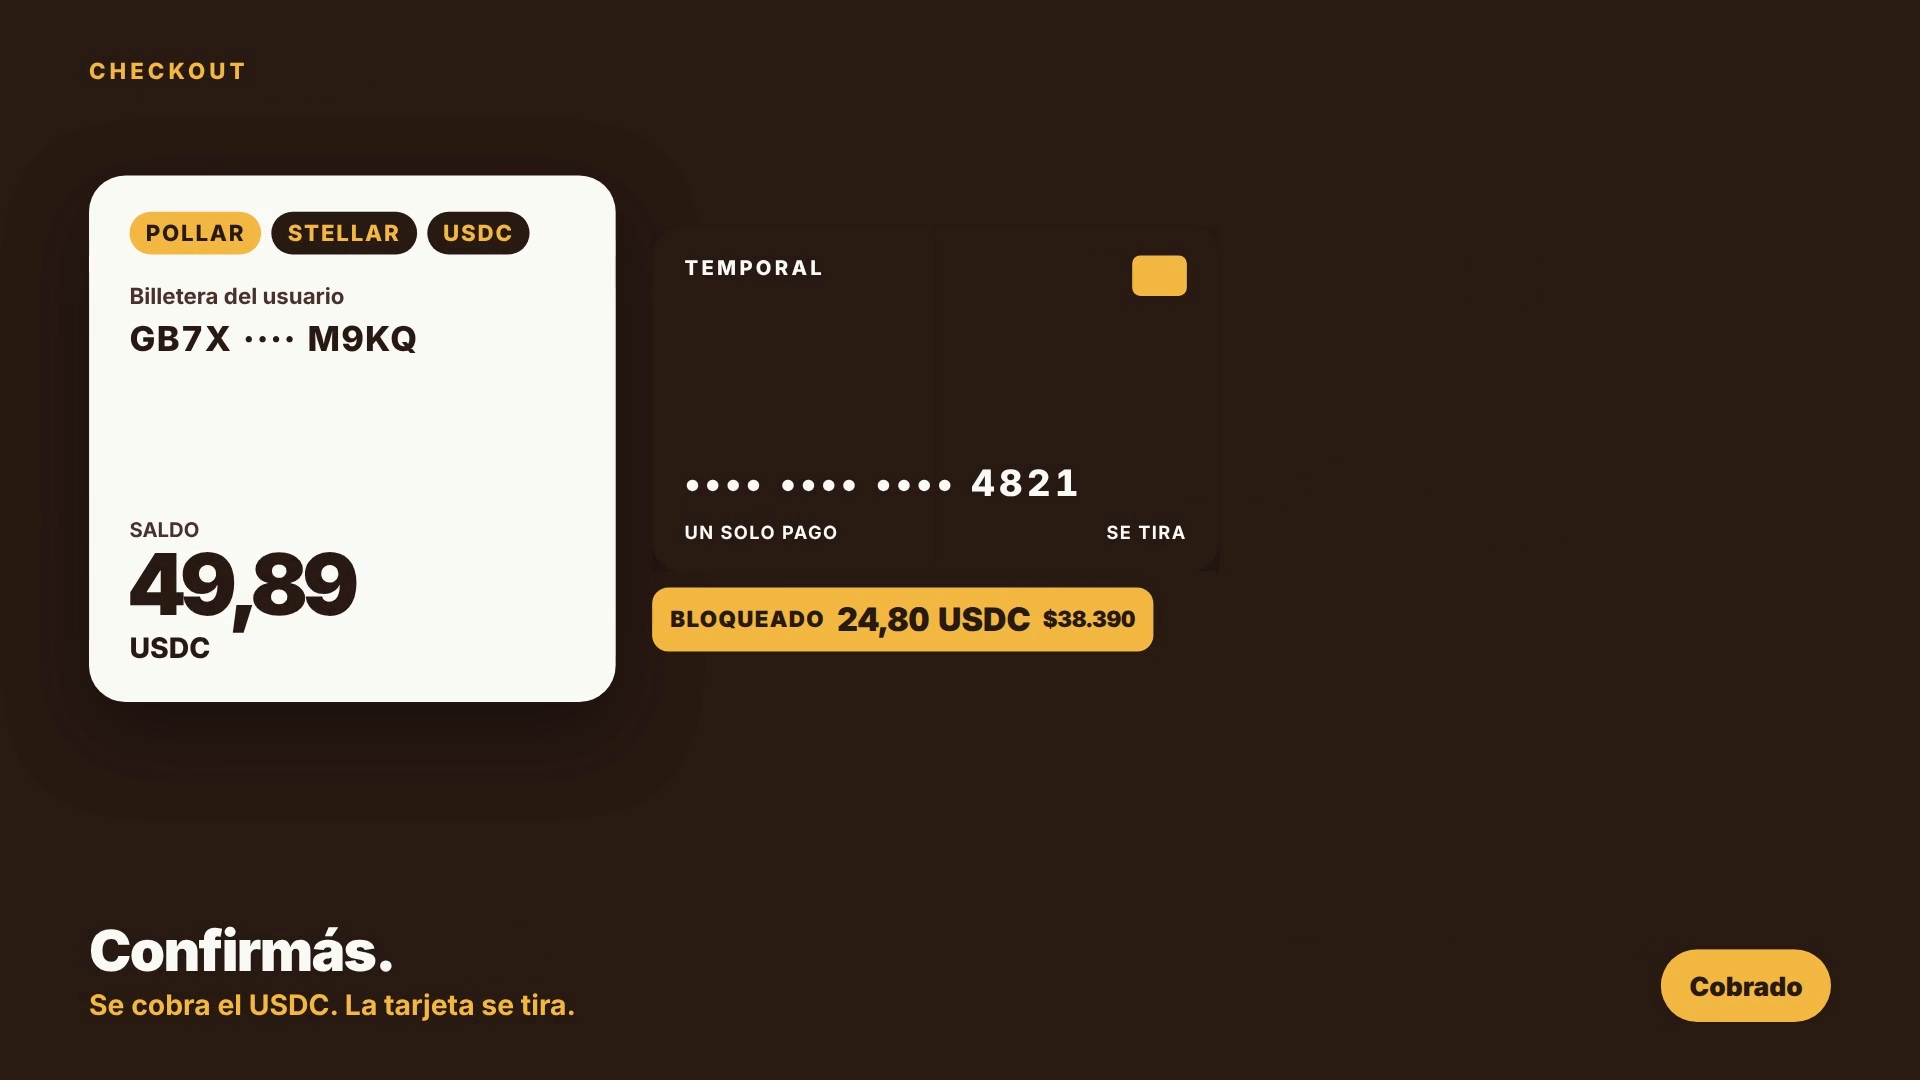
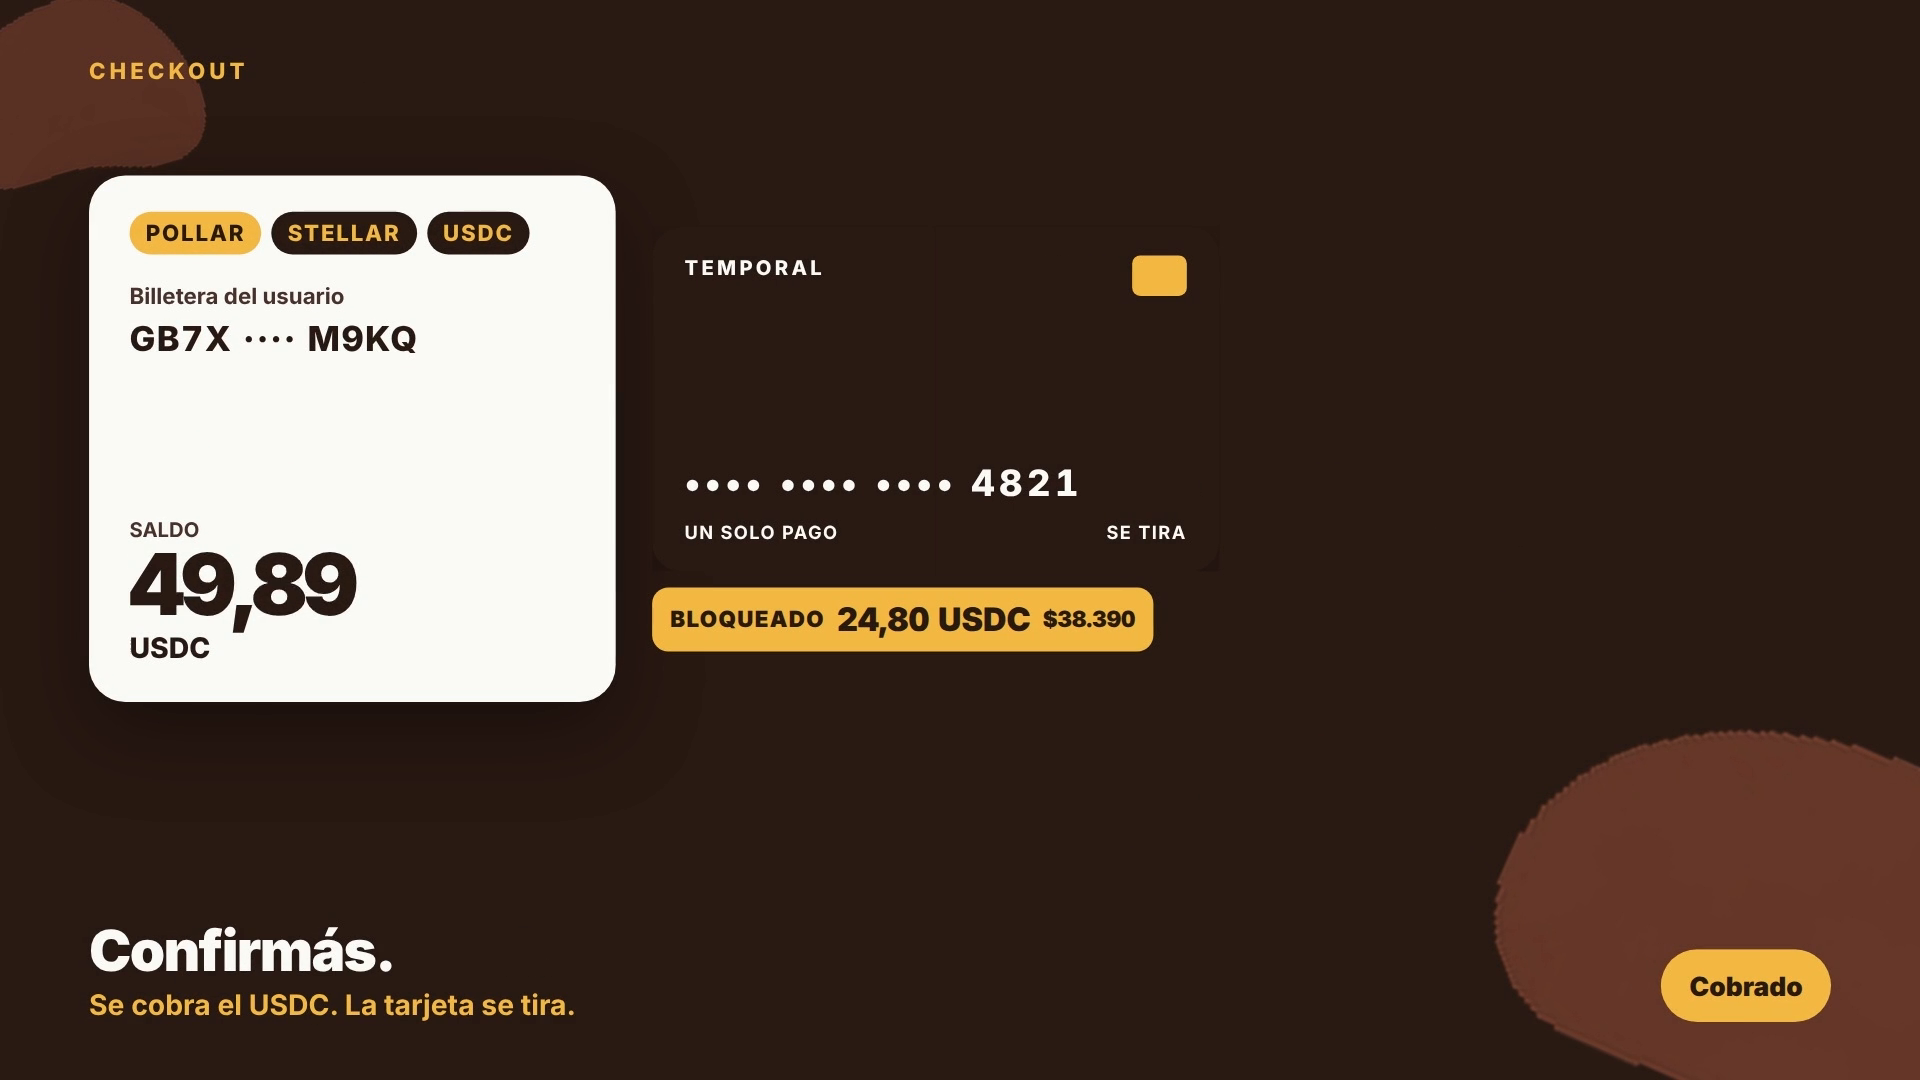
fix(video): titular de pago y acentos del patrón de marca
El pitch 16:9 dice «Pagás con USDC en Stellar» y cambia los óvalos de fondo por mate, pan y blobs. El reel vertical no se toca.

Changed region(s): [[0.7812, 0.6722, 1.0, 1.0], [0.0, 0.0, 0.125, 0.1833]]

diff --git a/creatives/youtube-pitch/src/scenes/Pago.tsx b/creatives/youtube-pitch/src/scenes/Pago.tsx
@@ -9,7 +9,7 @@ import {
   SNAPPY,
   springAt,
 } from "../anim";
-import { SceneShell, Sfx } from "../components/ui";
+import { BrandAccent, SceneShell, Sfx } from "../components/ui";
 import { COLORS, sceneDuration } from "../theme";
 
 const OPEN_END = 78;
@@ -163,6 +163,16 @@ export const Pago: React.FC = () => {
 
   return (
     <SceneShell background={COLORS.espresso} durationInFrames={duration} push={0.02}>
+      <BrandAccent
+        icon="blob-arcilla"
+        size={640}
+        style={{ right: -180, bottom: -180, opacity: 0.35, rotate: "24deg" }}
+      />
+      <BrandAccent
+        icon="blob-arcilla"
+        size={280}
+        style={{ left: -60, top: -40, opacity: 0.28, rotate: "-16deg" }}
+      />
       {/* Cold open */}
       <div
         style={{
@@ -180,20 +190,33 @@ export const Pago: React.FC = () => {
           lineHeight: 0.95,
         }}
       >
-        <div style={{ fontSize: 104 }}>STELLAR ADENTRO.</div>
         <div
           style={{
-            marginTop: 18,
             display: "inline-block",
-            padding: "8px 26px 14px",
+            maxWidth: 1500,
+            padding: "8px 28px 16px",
             borderRadius: 18,
             background: COLORS.sunflower,
             color: COLORS.espresso,
-            fontSize: 92,
-            rotate: "-1.4deg",
+            fontSize: 72,
+            lineHeight: 1.05,
+            rotate: "-1.2deg",
           }}
         >
-          TARJETA AFUERA.
+          Pagás con USDC en Stellar.
+        </div>
+        <div
+          style={{
+            marginTop: 28,
+            maxWidth: 1480,
+            fontSize: 46,
+            fontWeight: 800,
+            letterSpacing: "-0.03em",
+            lineHeight: 1.15,
+            color: COLORS.offWhite,
+          }}
+        >
+          Nosotros nos encargamos de que lo acepte el supermercado.
         </div>
       </div>
 

diff --git a/creatives/youtube-pitch/src/scenes/Cta.tsx b/creatives/youtube-pitch/src/scenes/Cta.tsx
@@ -1,7 +1,7 @@
 import React from "react";
 import { useCurrentFrame, useVideoConfig } from "remotion";
 import { progress, SMOOTH, SNAPPY, springAt } from "../anim";
-import { Mascot, SceneShell, Sfx, Wordmark } from "../components/ui";
+import { BrandAccent, Mascot, SceneShell, Sfx, Wordmark } from "../components/ui";
 import { COLORS, sceneDuration } from "../theme";
 
 export const Cta: React.FC = () => {
@@ -17,27 +17,25 @@ export const Cta: React.FC = () => {
 
   return (
     <SceneShell background={COLORS.offWhite} durationInFrames={duration} push={0.015}>
-      <div
-        style={{
-          position: "absolute",
-          right: -140,
-          top: -100,
-          width: 560,
-          height: 420,
-          borderRadius: "58% 42% 50% 50%",
-          background: "rgba(224,122,95,0.18)",
-        }}
+      <BrandAccent
+        icon="blob-arcilla"
+        size={520}
+        style={{ right: -140, top: -160, opacity: 0.45, rotate: "16deg" }}
       />
-      <div
-        style={{
-          position: "absolute",
-          left: -120,
-          bottom: 80,
-          width: 420,
-          height: 320,
-          borderRadius: "46% 54% 42% 58%",
-          background: "rgba(244,185,66,0.28)",
-        }}
+      <BrandAccent
+        icon="blob-espresso"
+        size={360}
+        style={{ left: -80, bottom: 40, opacity: 0.12, rotate: "-12deg" }}
+      />
+      <BrandAccent
+        icon="mate"
+        size={200}
+        style={{ left: 90, top: 48, opacity: 0.35, rotate: "-10deg" }}
+      />
+      <BrandAccent
+        icon="pan"
+        size={210}
+        style={{ right: -36, bottom: -40, opacity: 0.34, rotate: "14deg" }}
       />
 
       <div

diff --git a/creatives/youtube-pitch/src/scenes/Title.tsx b/creatives/youtube-pitch/src/scenes/Title.tsx
@@ -1,7 +1,7 @@
 import React from "react";
 import { useCurrentFrame, useVideoConfig } from "remotion";
 import { progress, SMOOTH, SNAPPY, springAt } from "../anim";
-import { Mascot, SceneShell, Sfx, Wordmark } from "../components/ui";
+import { BrandAccent, Mascot, SceneShell, Sfx, Wordmark } from "../components/ui";
 import { COLORS, sceneDuration } from "../theme";
 
 export const Title: React.FC = () => {
@@ -21,27 +21,20 @@ export const Title: React.FC = () => {
 
   return (
     <SceneShell background={COLORS.offWhite} durationInFrames={duration} push={0.02}>
-      <div
-        style={{
-          position: "absolute",
-          right: -160,
-          top: -80,
-          width: 640,
-          height: 480,
-          borderRadius: "58% 42% 55% 45% / 52% 60% 40% 48%",
-          background: "rgba(244,185,66,0.28)",
-        }}
+      <BrandAccent
+        icon="blob-arcilla"
+        size={620}
+        style={{ right: -160, top: -180, opacity: 0.55, rotate: "-18deg" }}
       />
-      <div
-        style={{
-          position: "absolute",
-          left: -180,
-          bottom: -80,
-          width: 520,
-          height: 380,
-          borderRadius: "45% 55% 40% 60%",
-          background: "rgba(224,122,95,0.16)",
-        }}
+      <BrandAccent
+        icon="pan"
+        size={280}
+        style={{ left: -40, bottom: -30, opacity: 0.28, rotate: "12deg" }}
+      />
+      <BrandAccent
+        icon="mate"
+        size={220}
+        style={{ right: 80, top: 36, opacity: 0.22, rotate: "-8deg" }}
       />
 
       <div

diff --git a/creatives/youtube-pitch/src/scenes/Demo.tsx b/creatives/youtube-pitch/src/scenes/Demo.tsx
@@ -10,6 +10,7 @@ import {
 } from "../anim";
 import {
   Appear,
+  BrandAccent,
   Card,
   Isotipo,
   Mascot,
@@ -223,16 +224,15 @@ export const Demo: React.FC = () => {
 
   return (
     <SceneShell background={COLORS.offWhite} durationInFrames={duration}>
-      <div
-        style={{
-          position: "absolute",
-          right: -180,
-          top: -120,
-          width: 520,
-          height: 420,
-          borderRadius: "58% 42% 55% 45%",
-          background: "rgba(224,122,95,0.16)",
-        }}
+      <BrandAccent
+        icon="blob-arcilla"
+        size={340}
+        style={{ right: -200, top: -160, opacity: 0.45, rotate: "20deg" }}
+      />
+      <BrandAccent
+        icon="pan"
+        size={170}
+        style={{ left: -60, top: -36, opacity: 0.4, rotate: "-8deg" }}
       />
       <Caption {...caption} />
 

diff --git a/creatives/youtube-pitch/src/components/ui.tsx b/creatives/youtube-pitch/src/components/ui.tsx
@@ -77,6 +77,30 @@ export const Mascot: React.FC<{
   );
 };
 
+export type BrandIcon = "mate" | "pan" | "blob-arcilla" | "blob-espresso";
+
+/**
+ * Faded brand-pattern accent (mate, pan, clay blob, espresso blob).
+ * Background decoration is only these PNGs — never a painted circle or oval.
+ */
+export const BrandAccent: React.FC<{
+  icon: BrandIcon;
+  size: number;
+  style?: React.CSSProperties;
+}> = ({ icon, size, style }) => (
+  <Img
+    src={staticFile(`brand/icons/${icon}.png`)}
+    style={{
+      position: "absolute",
+      width: size,
+      height: size,
+      objectFit: "contain",
+      pointerEvents: "none",
+      ...style,
+    }}
+  />
+);
+
 /** The canonical lettering PNG. The name is never set in a generic font. */
 export const Wordmark: React.FC<{
   width: number;

diff --git a/creatives/youtube-pitch/README.md b/creatives/youtube-pitch/README.md
@@ -38,7 +38,7 @@ Las duraciones están en `src/timeline.json`.
 | 2 | `Insight` | 10 s | El súper como segundo trabajo: lista, precios, minutos |
 | 3 | `Promesa` | 8 s | Te arma el súper. No es un exchange ni un comparador |
 | 4 | `Demo` | 28 s | El producto en movimiento: chat, precios, carrito. Sin slides de «cómo funciona» |
-| 5 | `Pago` | 25 s | Stellar adentro, tarjeta afuera: billetera Pollar, fondeo, tarjeta temporal, cobro, descarte, o la tarjeta que ya tenés, y por qué (el súper exige tarjeta; Stellar no reemplaza el POS) |
+| 5 | `Pago` | 25 s | «Pagás con USDC en Stellar. Nosotros nos encargamos de que lo acepte el supermercado.» Billetera Pollar, fondeo, tarjeta temporal, cobro y descarte, o la tarjeta que ya tenés |
 | 6 | `Cta` | 11 s | Sumate a la beta · www.changuito.me/whitelist · app.changuito.me |
 
 Los cortes van cubiertos por un panel (`src/components/Swipe.tsx`) como overlay
